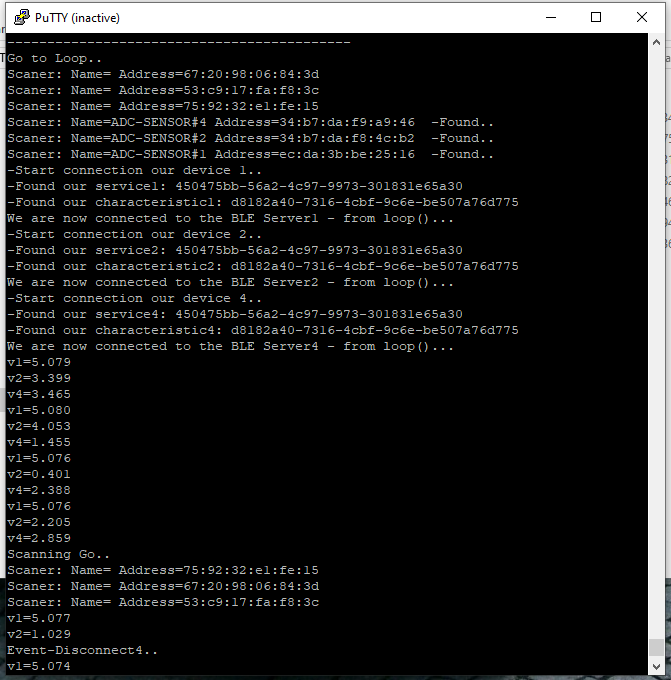
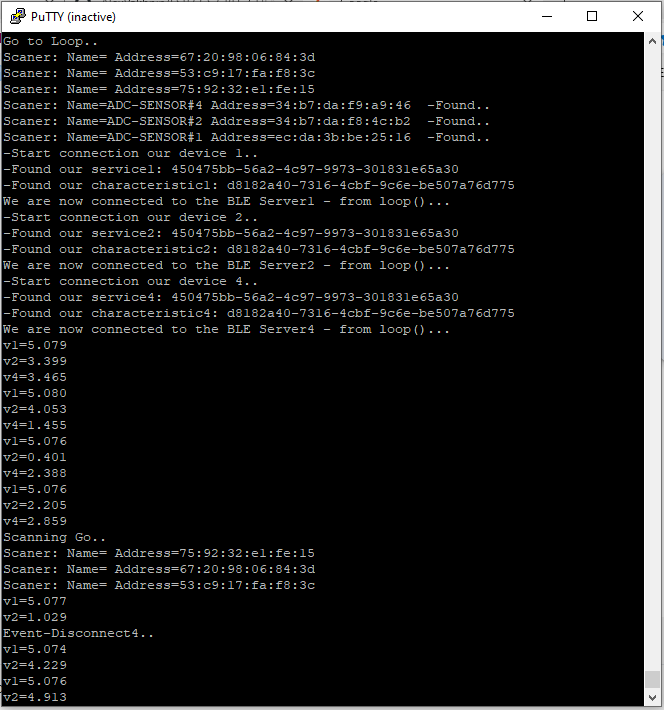
ready for use

Changed region(s): [[0.0, 0.0, 1.0, 1.0], [0.1807, 0.9265, 0.2108, 0.9574]]

diff --git a/src/BLECLI.cpp b/src/BLECLI.cpp
@@ -296,7 +296,7 @@ class MyAdvertisedDeviceCallbacks: public BLEAdvertisedDeviceCallbacks {
   // событие вызывается для каждого сервера рекламирующего услуги..
   void onResult(BLEAdvertisedDevice advertisedDevice) {
     
-    Serial.print("Scaner: Name=");Serial.print(advertisedDevice.getName().c_str());
+    Serial.print("Scanner: Name=");Serial.print(advertisedDevice.getName().c_str());
     Serial.print(" Address=");Serial.print(advertisedDevice.getAddress().toString().c_str());
 
       // проверяем имена наших сенсоров
